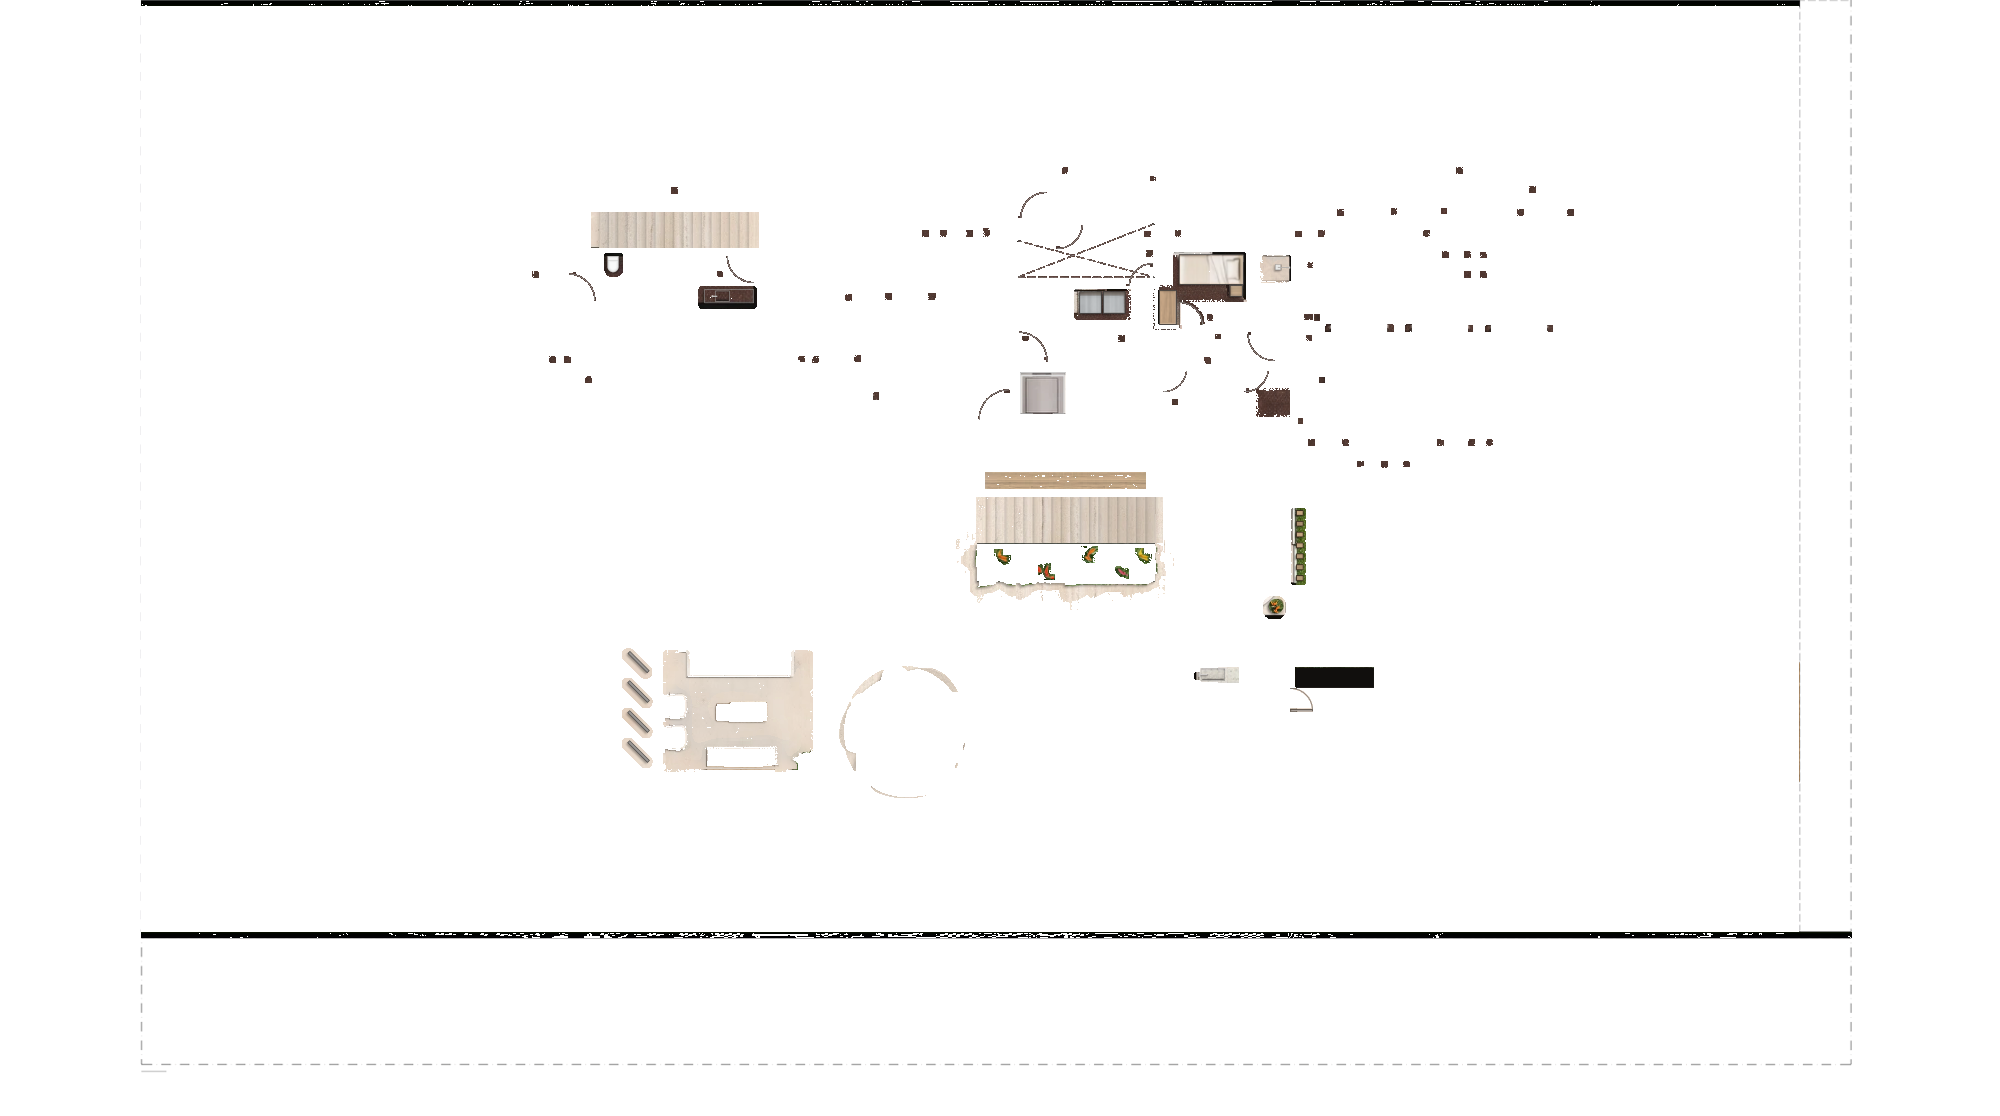
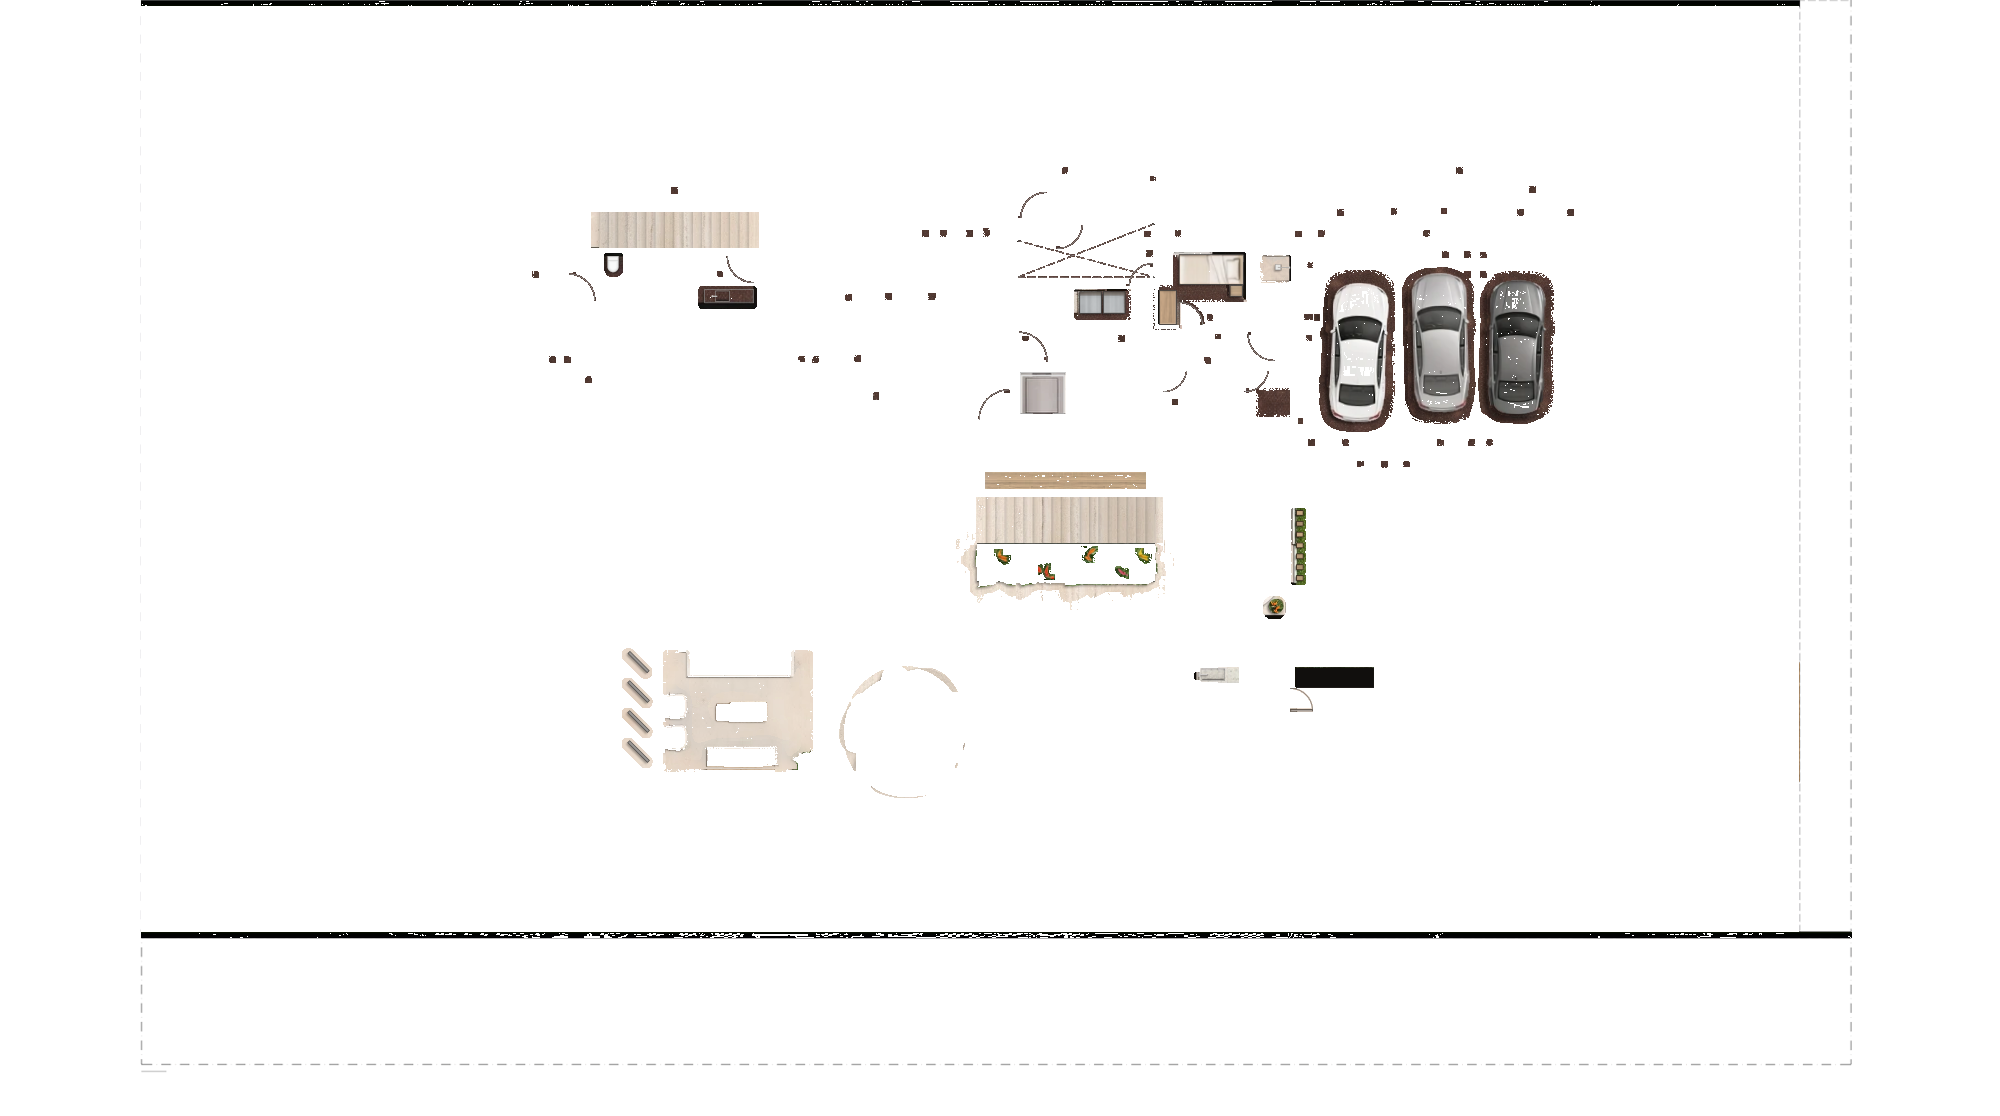
Casa E: carros levemente desalinhados
Cada carro ganha um deslocamento e um giro leves, com o granito refeito
embaixo e a sombra curta de novo (pedido do usuário).

Claude-Session: https://claude.ai/code/session_01Mm19WX3KoLN1nXMDF5Ay3F

Changed region(s): [[0.651, 0.2437, 0.775, 0.3961]]

diff --git a/projetos/POE642_CasaA/scripts/retoque_terreo_casae.py b/projetos/POE642_CasaA/scripts/retoque_terreo_casae.py
@@ -109,6 +109,10 @@ Itens (o mapa está em POE642_CasaE/renders/POE642_CasaE_PH_Terreo_v1_erros.jpg)
     retângulos da ARQ_ELEMENTOS FIXOS junto à janela, que o motor apagou na grama, entram como réguas
     de madeira (o veio da mesa de jantar do render, no comprido de cada régua), cada uma num tom um
     pouco diferente, com contorno fino e sombra curta na grama.
+26. Carros (pedido do usuário: não precisam estar 100% alinhados): cada carro é recortado (a silhueta
+    do render), o granito volta no lugar dele e da sombra (tecido do próprio granito, na luz em volta)
+    e o carro volta com um deslocamento e um giro leves, diferentes para cada um, com a sombra curta
+    desenhada de novo.
 
 Uso (da pasta projetos/):
   python3 POE642_CasaA/scripts/retoque_terreo_casae.py POE642_CasaE/renders/POE642_CasaE_PH_Terreo_v1_render.webp \
@@ -122,6 +126,7 @@ from pathlib import Path
 import cv2
 import numpy as np
 import pymupdf
+from scipy import ndimage
 
 AQUI = Path(__file__).resolve().parent
 RAIZ = AQUI.parent.parent          # projetos/
@@ -1308,6 +1313,50 @@ def brises(out, orig, A):
     return out
 
 
+# carros (item 26): a janela da garagem, o granito limpo e, para cada carro (da esquerda para a
+# direita), o deslocamento (dx, dy) e o giro (graus) — leves, só para quebrar o alinhamento
+CARROS = {"janela": (1300, 250, 1580, 450), "fontes_granito": [(1300, 160, 1450, 200), (700, 160, 900, 200)],
+          "movimento": [(-1.0, 6.0, -2.5), (1.0, -4.0, 1.5), (-2.0, 2.0, -1.0)],
+          "sombra": {"desloc": (-2.0, 2.0), "sigma": 1.5, "forca": 0.4}}
+
+
+def carros(out):
+    q = CARROS
+    wx0, wy0, wx1, wy1 = q["janela"]
+    reg = out[wy0:wy1, wx0:wx1].astype(np.int32)
+    g = reg.mean(axis=2)
+    neutro = np.abs(reg[..., 2] - reg[..., 0]) < 12
+    m = ((g > 120) | (neutro & (g > 60))).astype(np.uint8)
+    m = cv2.morphologyEx(m, cv2.MORPH_CLOSE, np.ones((9, 9), np.uint8))
+    n, lab, st, cen = cv2.connectedComponentsWithStats(m)
+    ids = sorted([i for i in range(1, n) if st[i, cv2.CC_STAT_AREA] > 1500], key=lambda i: cen[i, 0])
+    silhuetas = [ndimage.binary_fill_holes(lab == i) for i in ids]
+    antes = out.copy()
+    tudo = np.zeros(g.shape, bool)
+    for s_ in silhuetas:
+        tudo |= s_
+    sai = cv2.dilate(tudo.astype(np.uint8), np.ones((9, 9), np.uint8)) > 0
+    out = apagar_largo(out, q["janela"], sai, q["fontes_granito"], sigma=4.0, borda=0.8, lum_min=40, lum_max=110,
+                       escuros=True)
+    h, w = g.shape
+    s = q["sombra"]
+    for sil, (dx, dy, ang) in zip(silhuetas, q["movimento"]):
+        ys, xs = np.nonzero(sil)
+        c = (float(xs.mean()), float(ys.mean()))
+        M = cv2.getRotationMatrix2D(c, ang, 1.0)
+        M[:, 2] += (dx, dy)
+        alfa = cv2.GaussianBlur(sil.astype(np.float32), (0, 0), 0.5)
+        alfa = cv2.warpAffine(alfa, M, (w, h), flags=cv2.INTER_LINEAR)
+        img = cv2.warpAffine(antes[wy0:wy1, wx0:wx1].astype(np.float32), M, (w, h), flags=cv2.INTER_LINEAR)
+        S = np.float32([[1, 0, s["desloc"][0]], [0, 1, s["desloc"][1]]])
+        sb = cv2.GaussianBlur(cv2.warpAffine(alfa, S, (w, h)), (0, 0), s["sigma"]) * (1 - alfa)
+        r = out[wy0:wy1, wx0:wx1].astype(np.float32) * (1 - s["forca"] * sb)[..., None]
+        a = np.clip(alfa, 0, 1)[..., None]
+        out[wy0:wy1, wx0:wx1] = np.clip(r * (1 - a) + img * a, 0, 255).astype(np.uint8)
+    print(f"    garagem: {len(silhuetas)} carros com deslocamento e giro leves")
+    return out
+
+
 def main():
     ap = argparse.ArgumentParser(description=__doc__, formatter_class=argparse.RawDescriptionHelpFormatter)
     ap.add_argument("render", type=Path)
@@ -1363,6 +1412,8 @@ def main():
     out = porta_hall(out, A)
     print("[25] brises de madeira na janela do escritório")
     out = brises(out, orig, A)
+    print("[26] carros levemente desalinhados")
+    out = carros(out)
     print("[19] jardim de inverno: um pouco para fora, com flores")
     out = jardim_flores(out, orig)
 

diff --git a/projetos/POE642_HANDOFF_SESSAO_LOCAL.md b/projetos/POE642_HANDOFF_SESSAO_LOCAL.md
@@ -494,5 +494,6 @@ python texturizar_base.py Subsolo ../../POE642_CasaC/bases/POE642_CasaC_BASE_Sub
   23. banho gourmet (pedido do usuário): faltavam a bancada da pia e a torneira. A bancada do PDF (ARQ_BANCADAS, 49 × 13 px, encostada na parede de baixo) é em granito marrom, como o piso: entrou pelo contorno cinza fino (160, 161, 160; o dos arcos sobre o granito), com o tampo 7% mais claro (polido) e sombra curta no piso; no painel do meio, a cuba esculpida no próprio granito (a mesma rotina da do lavabo, `cuba_esculpida`, com a fenda escura) e, no painel da esquerda, a torneira cromada do PDF (base redonda e bica até a cuba).
   24. porta do hall externo (pedido do usuário): faltavam a extensão e o arco. A porta do PDF tem duas folhas: a grande (que o render fez, com o arco para baixo) e a pequena, à direita (22 px), que abre para cima. A folha pequena entrou na espessura do PDF, no desenho da grande (traço escuro em cima, médio embaixo, miolo claro, os tons medidos nela), com o encontro das duas marcado, e o arco dela, da curva do PDF, no traço fino do arco da grande.
   25. brises da janela do escritório (pedido do usuário: em tons de madeira, do lado de fora): os 7 retângulos da ARQ_ELEMENTOS FIXOS junto à janela (6,8 × 4,6 px), que o motor apagou na grama, entraram como réguas de madeira (cada uma um trecho diferente do veio da mesa de jantar do render, deitado, num tom de 0,8 a 1,0), com contorno fino marrom-escuro e sombra curta na grama.
+  26. carros (pedido do usuário: não precisam estar 100% alinhados): cada carro foi recortado (a silhueta do render), o granito voltou no lugar dele e da sombra (tecido, na luz em volta) e o carro voltou com deslocamento e giro leves, diferentes para cada um (branco: 6 px para baixo, -2,5°; prata: 4 px para cima, +1,5°; grafite: 2 px para baixo, -1°), com a sombra curta desenhada de novo.
 - **Próximo passo:** o usuário confere o retocado (`renders/POE642_CasaE_PH_Terreo_v1_retocado.png`); depois, a imagem final e a prancha/PDF de entrega da Casa E (falta a chave `entrega` na config: endereço, áreas etc.).
 

diff --git a/projetos/POE642_CasaA/scripts/README.md b/projetos/POE642_CasaA/scripts/README.md
@@ -323,6 +323,7 @@ O render do Térreo da Casa E manteve a escala da base (o afim do SIFT é quase 
 - **Bancada do banho gourmet (item 23):** `bancada_gourmet` desenha a bancada do PDF no granito (contorno cinza fino, tampo um pouco mais claro, sombra curta), a cuba esculpida (`cuba_esculpida`, comum com o lavabo) e a torneira cromada.
 - **Porta do hall externo (item 24):** `porta_hall` desenha a folha pequena (retângulo do PDF, nos tons da folha grande do render) e o arco dela (a curva da ARQ_PAREDE).
 - **Brises do escritório (item 25):** `brises` cola um trecho da madeira da mesa de jantar em cada retângulo do PDF (`colar`), num tom sorteado, com contorno e sombra curta.
+- **Carros (item 26):** `carros` recorta cada silhueta, refaz o granito embaixo (`apagar_largo`) e recoloca o carro com o afim de `CARROS["movimento"]` e uma sombra curta nova.
 
 ```bash
 python retoque_terreo_casae.py ../../POE642_CasaE/renders/POE642_CasaE_PH_Terreo_v1_render.webp --saida ../../POE642_CasaE/renders --nome POE642_CasaE_PH_Terreo_v1_retocado
